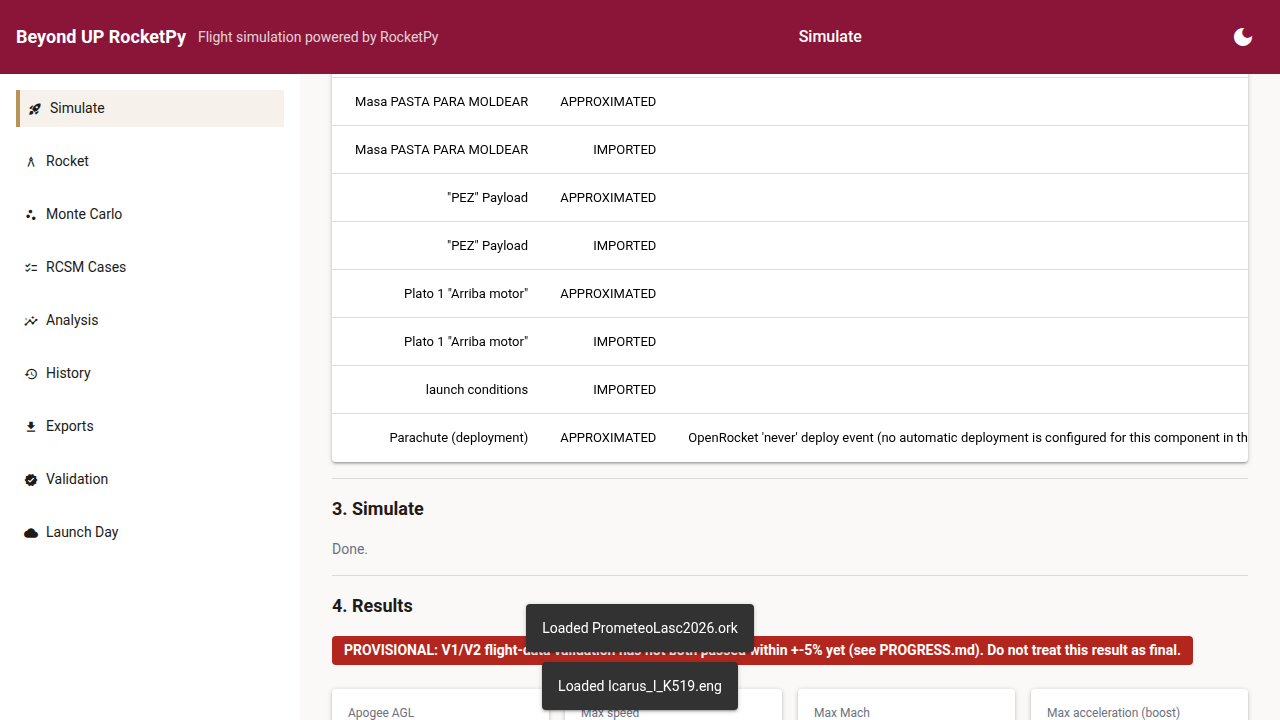
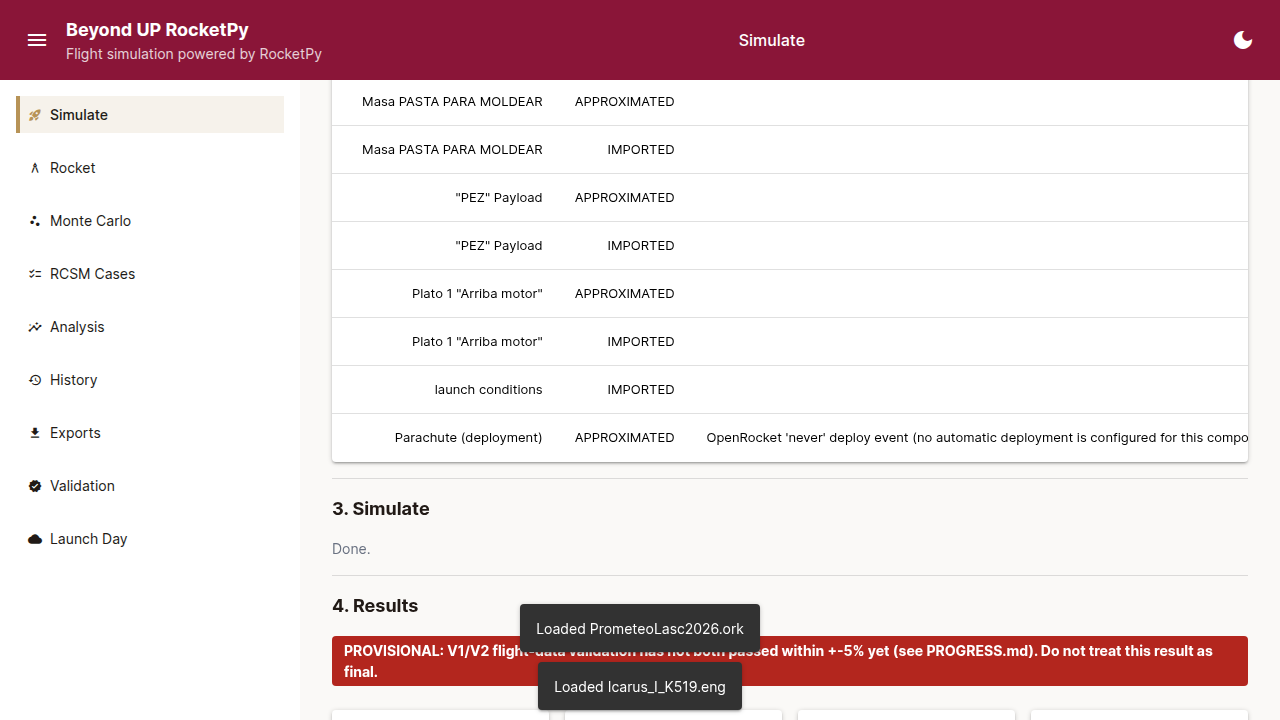
Design system: component gallery page + docs/design_system.md
- New /design-system page rendering every component from components.py
  (not in the sidebar nav - a reference page, not a Diego-facing
  feature), registered in app.py's page-module import list.
- docs/design_system.md documents every token/component with the
  gallery's own light+dark screenshots.
- Real bug caught building the gallery: a global `* { font-family:
  Inter }` rule was silently overriding every sidebar/button icon's
  font, because NiceGUI/Quasar ship their base CSS inside a named
  `@layer base` and unlayered CSS always beats layered CSS regardless
  of specificity. Icons were rendering as literal text
  ("rocket_launch") instead of glyphs. Fixed in theme.py with an
  explicit restore rule; locked in with a new
  tests/test_design_system_e2e.py (checks document.fonts.check(...)
  after document.fonts.ready, not innerText - Material Icons uses
  ligatures, so the DOM text never changes either way).

Full suite: 93 unit/integration passed, 1 skipped; new design-system
e2e tests: 2/2 passed.

Claude-Session: https://claude.ai/code/session_01RHCgNw4tm9jk7r5jJja457

diff --git a/tests/test_design_system_e2e.py b/tests/test_design_system_e2e.py
@@ -1,0 +1,111 @@
+"""2026-09-27 UI redesign, Step 1: the design system gallery page loads
+cleanly, and - a real bug caught while building it - sidebar/button
+icons keep rendering as actual glyphs, not literal text like
+"rocket_launch". That bug came from a global `* { font-family: Inter }`
+rule unintentionally beating Quasar's own (layered) `.material-icons`
+rule, since NiceGUI/Quasar ship their base CSS inside a named
+`@layer base` and unlayered rules always win over layered ones,
+REGARDLESS of specificity - a real CSS cascade-layers gotcha, not a
+typo. This test locks in the fix.
+"""
+import os
+import subprocess
+import sys
+import time
+
+import pytest
+from playwright.sync_api import sync_playwright
+
+REPO_ROOT = os.path.dirname(os.path.dirname(os.path.abspath(__file__)))
+CHROMIUM = "/opt/pw-browsers/chromium"
+
+
+def _start_app(port, runs_dir):
+    env = dict(os.environ, BUP_ROCKETPY_PORT=str(port), BUP_ROCKETPY_SHOW="0", BUP_ROCKETPY_RUNS_DIR=runs_dir, PYTHONPATH=REPO_ROOT)
+    env.pop("PYTEST_CURRENT_TEST", None)
+    proc = subprocess.Popen([sys.executable, "-m", "bup_rocketpy.gui.app"], cwd=REPO_ROOT, env=env, stdout=subprocess.PIPE, stderr=subprocess.STDOUT, text=True)
+    import urllib.request
+    base_url = f"http://127.0.0.1:{port}"
+    deadline = time.time() + 30
+    ready = False
+    while time.time() < deadline:
+        try:
+            urllib.request.urlopen(base_url, timeout=1)
+            ready = True
+            break
+        except Exception:
+            if proc.poll() is not None:
+                break
+            time.sleep(0.5)
+    if not ready:
+        out = proc.stdout.read() if proc.stdout else ""
+        proc.kill()
+        pytest.fail(f"app server never became ready on {base_url}. Output:\n{out}")
+    return proc, base_url
+
+
+def test_material_icons_render_as_glyphs_not_literal_text(tmp_path):
+    port = 8197
+    proc, base_url = _start_app(port, str(tmp_path / "runs"))
+    try:
+        with sync_playwright() as p:
+            browser = p.chromium.launch(executable_path=CHROMIUM)
+            page = browser.new_page()
+            page.goto(base_url + "/", wait_until="networkidle")
+            font_family = page.evaluate(
+                "() => { const el = document.querySelector('.material-icons'); "
+                "return el ? getComputedStyle(el).fontFamily : null; }"
+            )
+            assert font_family is not None, "expected at least one .material-icons element on the page"
+            assert "Material Icons" in font_family, (
+                f"icon font-family resolved to {font_family!r}, not Material Icons - the global Inter font "
+                "rule is clobbering Quasar's own (layered) icon CSS again"
+            )
+            # font-family alone isn't proof the GLYPH actually renders -
+            # Material Icons uses ligatures, so the DOM text node always
+            # literally contains "rocket_launch" etc. regardless of
+            # whether the font applied (innerText can't tell them apart).
+            # document.fonts is the real signal: the icon font face must
+            # have finished loading (not just been requested).
+            icon_font_loaded = page.evaluate(
+                "async () => { await document.fonts.ready; return document.fonts.check('24px \"Material Icons\"'); }"
+            )
+            assert icon_font_loaded, "the Material Icons font face never finished loading (icons would render as literal text)"
+            browser.close()
+    finally:
+        proc.kill()
+        proc.wait(timeout=10)
+
+
+def test_design_system_gallery_page_loads_with_no_errors(tmp_path):
+    port = 8198
+    proc, base_url = _start_app(port, str(tmp_path / "runs"))
+    try:
+        with sync_playwright() as p:
+            browser = p.chromium.launch(executable_path=CHROMIUM)
+            page = browser.new_page()
+            console_errors = []
+            page.on("console", lambda msg: console_errors.append(msg.text) if msg.type == "error" else None)
+            page.goto(base_url + "/design-system", wait_until="networkidle")
+            page.wait_for_timeout(300)
+            body_text = page.inner_text("body")
+            assert "Traceback" not in body_text and "Internal Server Error" not in body_text
+            for section in ("Colors", "Buttons", "Status chips", "KPI cards", "Cards (staggered entrance)", "Empty state", "Skeleton loading", "Confirm dialog", "Data table"):
+                assert section in body_text, f"missing gallery section {section!r}"
+            js_errors = [e for e in console_errors if "favicon" not in e.lower()]
+            assert not js_errors, f"JS console errors on the design system page: {js_errors}"
+            browser.close()
+    finally:
+        proc.kill()
+        proc.wait(timeout=10)
+
+
+if __name__ == "__main__":
+    import tempfile
+    with tempfile.TemporaryDirectory() as d:
+        import pathlib
+        test_material_icons_render_as_glyphs_not_literal_text(pathlib.Path(d))
+    with tempfile.TemporaryDirectory() as d:
+        import pathlib
+        test_design_system_gallery_page_loads_with_no_errors(pathlib.Path(d))
+    print("\nDESIGN SYSTEM E2E: OK")

diff --git a/bup_rocketpy/gui/pages/design_system_page.py b/bup_rocketpy/gui/pages/design_system_page.py
@@ -1,0 +1,85 @@
+"""Component gallery (2026-09-27 UI redesign, Step 1): every component
+from gui/components.py, rendered once so the whole design system can be
+screenshotted and checked in one place - not in the main sidebar nav
+(this is a reference page for whoever touches the UI next, not a
+Diego-facing feature), but reachable directly at /design-system.
+Documented alongside docs/design_system.md.
+"""
+from nicegui import ui
+
+from bup_rocketpy.gui import components, layout, theme
+
+
+def _section(title):
+    ui.label(title).classes("text-lg font-bold mt-4")
+    ui.separator()
+
+
+@ui.page("/design-system")
+def design_system_page():
+    with layout.layout("Design system", current_path="/design-system"):
+        components.page_header(
+            "Design system",
+            "Every token and component this app is built from - see docs/design_system.md.",
+            action_label="Primary action", action_icon="rocket_launch",
+        )
+
+        _section("Colors")
+        with ui.row().classes("gap-3 flex-wrap"):
+            for name, value in [("Wine", theme.WINE), ("Gold", theme.GOLD), ("Success", theme.SUCCESS),
+                                 ("Warning", theme.WARNING), ("Error", theme.ERROR), ("Info", theme.INFO)]:
+                with ui.column().classes("items-center gap-1"):
+                    ui.element("div").style(f"background-color:{value}; width:64px; height:64px; border-radius: var(--bup-radius-md);")
+                    ui.label(f"{name}").classes("text-xs")
+                    ui.label(value).classes("text-xs").style("color: var(--bup-muted)")
+
+        _section("Buttons")
+        with ui.row().classes("gap-3"):
+            components.button("Primary", kind="primary", icon="rocket_launch")
+            components.button("Secondary", kind="secondary", icon="tune")
+            components.button("Ghost", kind="ghost", icon="info")
+            components.button("Danger", kind="danger", icon="delete")
+
+        _section("Status chips")
+        with ui.row().classes("gap-2"):
+            components.status_chip("Neutral", "neutral")
+            components.status_chip("Reefing ON", "success")
+            components.status_chip("PROVISIONAL", "warning")
+            components.status_chip("FAIL", "error")
+            components.status_chip("Weather: Open-Meteo", "info")
+
+        _section("KPI cards (with count-up)")
+        with ui.grid(columns=4).classes("gap-3 w-full"):
+            components.kpi_card("Apogee AGL", None, "m", "target ballpark", status="good", countup_target=1072.1, decimals=1, stagger_index=0)
+            components.kpi_card("Max Mach", None, "", "boost phase", status="neutral", countup_target=0.473, decimals=3, stagger_index=1)
+            components.kpi_card("Min static margin", None, "cal", "rail exit - apogee", status="warn", countup_target=2.04, decimals=2, stagger_index=2)
+            components.kpi_card("Stability", "NO", "", "outside 1.5-4 cal", status="bad", stagger_index=3)
+
+        _section("Cards (staggered entrance)")
+        with ui.grid(columns=3).classes("gap-3 w-full"):
+            for i in range(3):
+                with components.card(interactive=True, stagger_index=i):
+                    ui.label(f"Card {i + 1}").classes("font-bold")
+                    ui.label("Hover to see the lift + shadow micro-interaction.").classes("text-sm").style("color: var(--bup-muted)")
+
+        _section("Empty state")
+        components.empty_state("rocket_launch", "Load your .ork and .eng to start.", action_label="Load files", on_action=lambda: ui.notify("Would navigate to Simulate"))
+
+        _section("Skeleton loading")
+        with ui.column().classes("gap-2 w-full max-w-md"):
+            components.skeleton(height="16px", width="60%")
+            components.skeleton(height="16px", width="90%")
+            components.skeleton(height="16px", width="75%")
+
+        _section("Confirm dialog")
+        dialog, confirm_btn = components.confirm_dialog("Delete this item? This cannot be undone.")
+        confirm_btn.on_click(lambda: (ui.notify("Confirmed (demo only)"), dialog.close()))
+        components.button("Open confirm dialog", kind="danger", on_click=dialog.open)
+
+        _section("Data table")
+        components.data_table(
+            columns=[{"name": "case", "label": "Case", "field": "case"}, {"name": "apogee", "label": "Apogee AGL (m)", "field": "apogee"}],
+            rows=[{"case": "Ballistic", "apogee": "980.2"}, {"case": "Nominal", "apogee": "1072.1"}],
+        )
+
+        components.finish_motion()

diff --git a/bup_rocketpy/gui/theme.py b/bup_rocketpy/gui/theme.py
@@ -146,7 +146,20 @@ def apply(ui):
         --bup-shadow-lg: 0 12px 24px rgba(0,0,0,0.45);
       }}
 
+      /* NiceGUI/Quasar ship their own base CSS inside an `@layer base`
+         (`@import url(...) layer(base)`) - per the CSS cascade-layers
+         spec, ANY unlayered rule beats ANY layered rule regardless of
+         specificity. This plain `*` rule is unlayered, so it would
+         otherwise silently clobber `.material-icons`'s own (layered,
+         more specific) font-family rule and every sidebar/button icon
+         would render as literal text ("rocket_launch") instead of a
+         glyph - caught by screenshotting this exact page. The second
+         rule below restores the icon font, and wins because a class
+         selector beats a universal one once both are unlayered. */
       * {{ font-family: 'Inter', -apple-system, BlinkMacSystemFont, 'Segoe UI', sans-serif; }}
+      .material-icons, .material-icons-outlined, .material-icons-round, .material-icons-sharp, .q-icon {{
+        font-family: "Material Icons" !important;
+      }}
       body {{ background-color: var(--bup-bg); color: var(--bup-text); }}
       body.body--dark {{ background-color: var(--bup-bg) !important; color: var(--bup-text) !important; }}
 

diff --git a/bup_rocketpy/gui/app.py b/bup_rocketpy/gui/app.py
@@ -386,7 +386,7 @@ def main():
     # rebind that name, so every `await run.io_bound(...)` call in this
     # module would fail with "'function' object has no attribute
     # 'io_bound'" - found exactly this way, 2026-09-26 review.
-    from bup_rocketpy.gui.pages import analysis_page, exports_page, history_page, launchday_page, montecarlo_page, rcsm_page, rocket_page, validation_page  # noqa: F401
+    from bup_rocketpy.gui.pages import analysis_page, design_system_page, exports_page, history_page, launchday_page, montecarlo_page, rcsm_page, rocket_page, validation_page  # noqa: F401
 
     port = int(os.environ.get("BUP_ROCKETPY_PORT", "8080"))
     show = os.environ.get("BUP_ROCKETPY_SHOW", "1") != "0"

diff --git a/docs/design_system.md b/docs/design_system.md
@@ -1,0 +1,123 @@
+# Beyond UP RocketPy - design system
+
+Every page in this app is built from the tokens and components documented
+here (`bup_rocketpy/gui/theme.py` + `bup_rocketpy/gui/components.py`).
+Nothing outside those two files should hardcode a color, spacing value,
+radius, shadow, or motion timing - that's what makes the planned rebrand
+a one-file change instead of a search-and-replace across every page.
+
+See it live at `/design-system` (not in the sidebar nav - it's a
+reference page for whoever touches the UI next, not a Diego-facing
+feature). Screenshot, light and dark:
+
+![Design system gallery, light mode](screenshots/redesign/design_system_light.png)
+![Design system gallery, dark mode](screenshots/redesign/design_system_dark.png)
+
+## Tokens (`theme.py`)
+
+All exposed as CSS custom properties (`var(--bup-*)`) so components never
+hardcode a value, plus as plain Python constants for matplotlib plots and
+anywhere Python needs the raw hex.
+
+| Token | Light | Dark | Use |
+|---|---|---|---|
+| `--bup-wine` | `#8A1538` | same | Primary brand color - header, primary buttons, active KPI values |
+| `--bup-gold` | `#B79357` | same | Accent - active nav indicator, secondary buttons, dark-mode KPI values |
+| `--bup-success` | `#2E7D32` | same | Passing/OK status |
+| `--bup-warning` | `#C77700` | same | PROVISIONAL/needs-attention status |
+| `--bup-error` | `#B3261E` | same | Failing/destructive status, danger buttons |
+| `--bup-info` | `#3A6EA5` | same | Informational chips (weather source, etc.) |
+| `--bup-bg` | `#FAF9F7` | `#1A1512` | Page background |
+| `--bup-surface` | `#FFFFFF` | `#2A211C` | Card/sidebar/dialog background |
+| `--bup-text` | `#211A16` | `#F2EEE9` | Body text |
+| `--bup-muted` | `#6B6259` | `#B8AEA3` | Secondary/caption text (labels, captions) |
+| `--bup-border` | `rgba(33,26,22,0.10)` | `rgba(242,238,233,0.12)` | Card/divider borders |
+
+Contrast (WCAG AA, checked against the pairings actually used - see
+`theme.py`'s own `CONTRAST_NOTES`): wine/white text pairs pass at ~8.6:1;
+gold is reserved for large text (>=24px) and non-text UI accents, where
+the 3:1 threshold applies instead of 4.5:1; muted text passes at
+4.6:1 (light) / 7.4:1 (dark).
+
+**Type scale**: one font, Inter (vendored locally via `@fontsource/inter`,
+4 weights - 400/500/600/700 - no CDN, `static/fonts/`). Size scale is
+Tailwind/Quasar's existing utility classes already used everywhere
+(`text-xs` through `text-2xl` + `font-medium`/`font-bold`) - not
+reinvented, just applied consistently through the components below
+instead of ad hoc per page.
+
+**Spacing/radii/shadows**: Tailwind's existing spacing utilities
+(`p-2`/`gap-4`/etc.) for layout; `--bup-radius-sm/md/lg` (6/10/16px) and
+`--bup-shadow-sm/md/lg` for cards, both as CSS custom properties so a
+component only ever says `border-radius: var(--bup-radius-lg)`.
+
+**Motion**: `--bup-duration-fast/base/slow` (120/200/250ms) and
+`--bup-ease` (`cubic-bezier(0.4, 0, 0.2, 1)`, Material's "standard"
+curve) - see the Motion section below for how they're used.
+
+## Components (`components.py`)
+
+| Component | Function | Notes |
+|---|---|---|
+| Page header | `page_header(title, description, action_label=, action_icon=, on_action=)` | Title + one-line description + a single primary action, identical shape on every page |
+| Card | `card(interactive=, stagger_index=)` (context manager) | `interactive=True` adds a hover lift; `stagger_index=i` adds the staggered entrance |
+| KPI card | `kpi_card(label, value, unit, caption, status=, countup_target=, decimals=, stagger_index=)` | Colored top border for status (`good`/`warn`/`bad`/`neutral`/`info`); `countup_target` animates the number in |
+| Status chip | `status_chip(text, kind=)` | `neutral`/`success`/`warning`/`error`/`info` - used for Reefing ON, PROVISIONAL, weather source, etc. |
+| Button | `button(label, kind=, icon=, on_click=)` | `primary`/`secondary`/`ghost`/`danger` - thin wrapper over `ui.button`, native focus/ripple untouched |
+| Empty state | `empty_state(icon, text, action_label=, on_action=)` | Icon + one sentence + action, used on every page's "nothing loaded yet" state |
+| Skeleton | `skeleton(height=, width=)` | Shimmering placeholder bar for a loading section |
+| Dropzone | `dropzone(label, on_upload, accept=)` | Styled wrapper over `ui.upload` (Quasar's uploader already supports drag-and-drop) |
+| Confirm dialog | `confirm_dialog(message, confirm_label=, danger=)` | Returns `(dialog, confirm_button)` - caller wires the actual action and calls `dialog.open()` |
+| Data table | `data_table(columns, rows)` | Thin themed wrapper over `ui.table` |
+| Toasts | `ui.notify(..., type=)` (NiceGUI/Quasar built-in) | Deliberately NOT reimplemented - Quasar's own Notify plugin already matches the palette via `ui.colors()` in `theme.apply()` |
+| Tabs | `ui.tabs()`/`ui.tab_panels()` (NiceGUI built-in) | Same reasoning as toasts - themed via CSS, not rebuilt |
+
+`components.finish_motion()`: call after inserting cards/KPI values
+**outside** the initial page render (a button click handler, a
+background-task completion callback) - `motion.js`'s `DOMContentLoaded`
+listener only covers what's on the page at load time.
+
+## Motion (Step 2)
+
+- **Page entrance**: `.bup-page-enter` (the content column every
+  `layout()` call wraps) fades + slides in over 250ms on every
+  navigation.
+- **Card stagger**: `.bup-stagger` + `--bup-i: <index>` (set by
+  `card(stagger_index=i)`/`kpi_card(..., stagger_index=i)`) delays each
+  card's entrance by `i * 40ms`, so a grid of cards cascades in instead
+  of popping all at once.
+- **KPI count-up**: `data-bup-countup`/`data-bup-target` (set by
+  `kpi_card(..., countup_target=...)`), animated by `static/motion.js`'s
+  `BUP.countUp()` with an ease-out-cubic curve over 600ms.
+- **Hover/press micro-interactions**: cards lift 1px + gain a stronger
+  shadow on hover (`.bup-card-interactive`), buttons scale down slightly
+  on press (`.bup-btn-primary:active`).
+- **Sidebar collapse**: the hamburger button in the header calls
+  Quasar's own `QDrawer.toggle()`, which already animates smoothly -
+  not reimplemented.
+- **`prefers-reduced-motion`**: every keyframe animation (page enter,
+  stagger, skeleton shimmer) is declared *inside*
+  `@media (prefers-reduced-motion: no-preference)` - with that
+  preference set, elements simply render at their final state
+  immediately, no motion at all. `motion.js`'s count-up checks the same
+  media query in JS and jumps straight to the final number.
+- **Performance**: everything above is a CSS transform/opacity animation
+  or a `requestAnimationFrame` loop over plain numbers - no layout
+  thrashing, nothing that would visibly slow the app down on a normal
+  laptop.
+
+## A real bug this design system caught
+
+Building the gallery page surfaced a genuine rendering bug, not just a
+style preference: a global `* { font-family: 'Inter' }` rule was
+silently overriding every sidebar/button icon's own font, because
+NiceGUI/Quasar ship their base CSS inside a named `@layer base`
+(`@import url(...) layer(base)`), and **unlayered CSS always wins over
+layered CSS regardless of specificity** - a real CSS cascade-layers
+gotcha. Icons rendered as literal text ("rocket_launch") instead of
+glyphs. Fixed in `theme.py` with an explicit
+`.material-icons, .q-icon { font-family: "Material Icons" !important; }`
+restore rule, and locked in with `tests/test_design_system_e2e.py`
+(checks `document.fonts.check('24px "Material Icons"')` after
+`document.fonts.ready` - not `innerText`, which can't tell the
+difference since Material Icons uses font ligatures).
